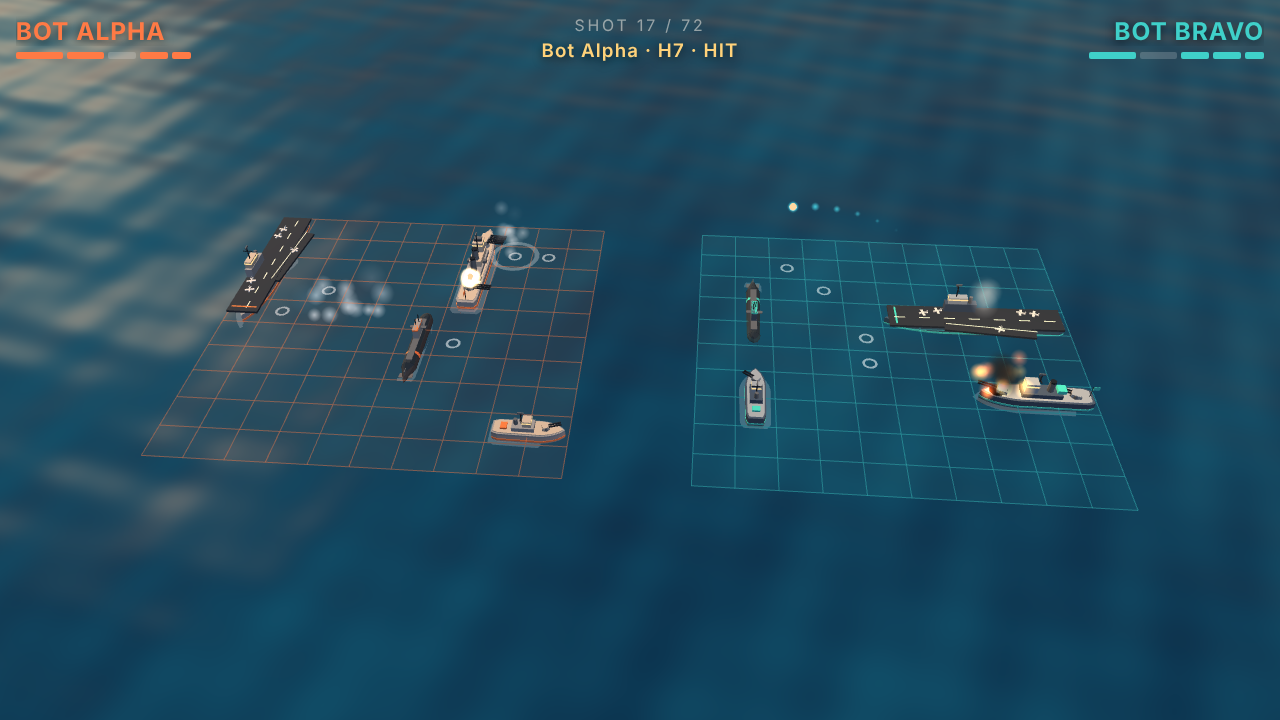
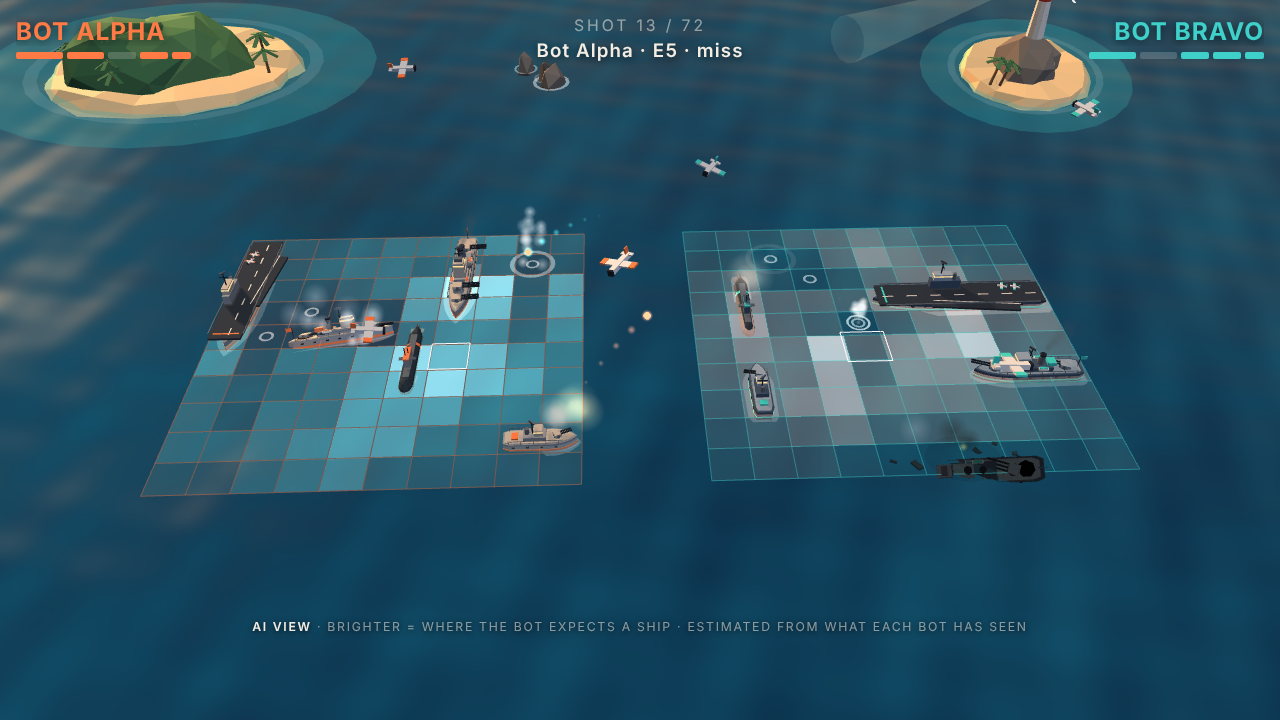
Refresh README flow and viewer screenshots
Update README wording to match the viewer’s click-to-start behavior, including sound startup, control descriptions, local viewing instructions, and recording steps. Replace and expand embedded screenshots by adding a new opener image and updating aerial/closeup captions, plus document docs/images in the project tree and clarify the demo AI view note.

diff --git a/README.md b/README.md
@@ -5,15 +5,17 @@ naval battle you can watch: fleets sail in, shells arc across the water, ships
 burn and sink.
 
 **[Watch it live](https://tdrobertson.github.io/battleship-hackathon-render/viewer/)**
-(click **Sound** once it loads).
+(click once to start it with sound).
 
-![Aerial view of a match in progress](docs/images/aerial.png)
+![Opening shot: a fleet sails toward the enemy on the horizon](docs/images/opener.png)
 
 It started as a club hackathon where members wrote Battleship bots and ran them
 against each other. This repository adds a way to *show* a match, so it can be
 recorded and shared.
 
-![Slow-motion close-up of a ship being sunk](docs/images/closeup.png)
+![Aerial view of a match in progress, with each bot's targeting heatmap](docs/images/aerial.png)
+
+![Close-up riding behind a shell on its way to the target](docs/images/closeup.png)
 
 ## What it does
 
@@ -59,9 +61,9 @@ cd battleship-hackathon-render
 pip install -e .
 ```
 
-Watch the included demo match by opening `viewer/index.html` in your browser.
-The page loads Three.js and a font from a CDN, so it needs an internet
-connection.
+Watch the included demo match by opening `viewer/index.html` in your browser
+and clicking once to start. The page loads Three.js and a font from a CDN, so
+it needs an internet connection.
 
 Record a different match and watch it:
 
@@ -129,12 +131,16 @@ are. A fork gets its own link at
 
 ## Using the viewer
 
+The viewer opens on a "Click to start" screen. Browsers only allow sound after
+a click or key press, so that first interaction switches the sound on and
+starts the match from the top.
+
 | Control | Key | What it does |
 | --- | --- | --- |
-| Restart | | Play the match again from the sail-in. |
+| Restart | | Play the match again from the opening. |
 | Pause | Space | Freeze and resume. |
 | Speed | | Cycle 1x, 2x, 4x, 0.5x. |
-| Sound | M | Turn sound on or off. Browsers keep it off until you click. |
+| Sound | M | Turn sound on or off. It comes on with the click that starts the match. |
 | AI view | V | Show or hide each bot's targeting heatmap. |
 | Loop | | Restart automatically after the winner card. |
 | Load replay | | Open any replay `.json` without re-running the exporter. |
@@ -145,10 +151,10 @@ tall one gives a portrait view suited to vertical video.
 
 ### Recording a video
 
-1. Size the browser window to the shape you want.
-2. Click **Sound**, then press **H** to hide the controls.
-3. Click **Restart** (press H again to reach it) and capture the window with a
-   screen recorder such as OBS or the Windows Game Bar (Win+Alt+R).
+1. Size the browser window to the shape you want and reload the page.
+2. Start a screen recorder such as OBS or the Windows Game Bar (Win+Alt+R).
+3. Click to start, then press **H** to hide the controls. Trim the first second
+   afterwards.
 
 ### Tuning
 
@@ -224,6 +230,7 @@ src/                      # Hackathon kit: game engine, match runner, bot SDK
 examples/                 # Hackathon kit: example bots and snippets
 tests/                    # Hackathon kit: test suite
 docs/
+|-- images/               # Screenshots used in this README
 |-- hackathon_kit.md      # Original kit README: installing, running, writing bots
 |-- rules.md              # Game rules
 `-- ...                   # Remaining kit documentation
@@ -236,7 +243,10 @@ exporter only listens to the spectator hooks the match runner already provides.
 
 - The included demo is a match between two copies of the kit's `hunt-target`
   reference bot, not hackathon entries.
-- The visuals are deliberately stylised, and the recordings are of sailing-era cannon rather than modern naval guns.
+- The visuals are deliberately stylised, and the recordings are of sailing-era
+  cannon rather than modern naval guns.
+- The AI view in the demo is estimated, because the reference bot does not
+  expose its own scores.
 - The viewer is display-only; there is no interactive play.
 
 ## Credits
